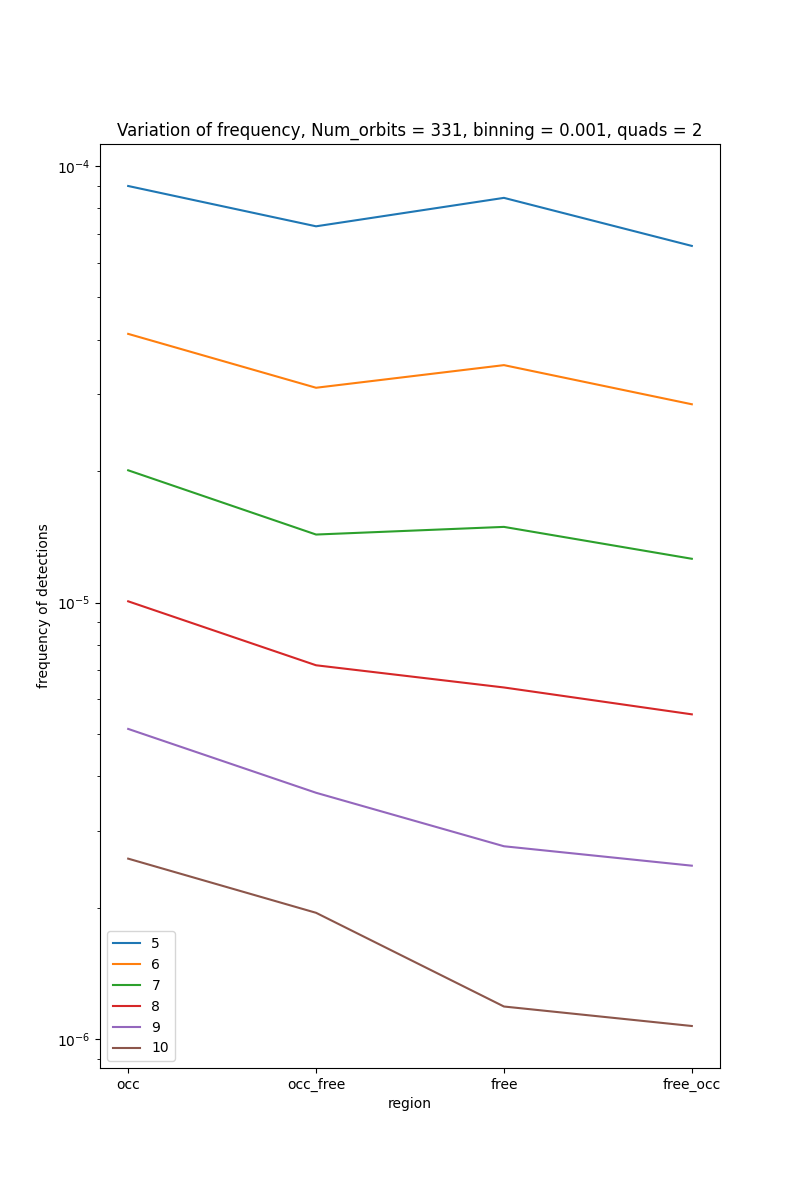
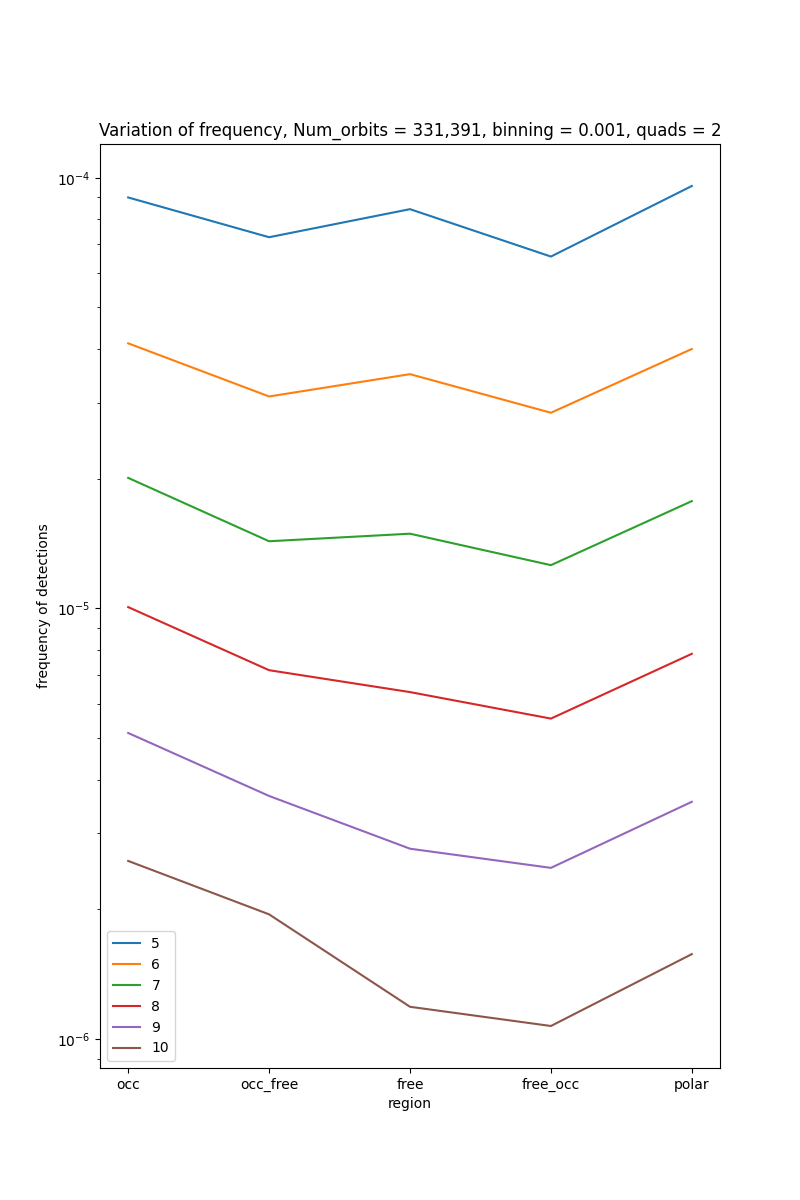
plots made

diff --git a/scripts/get_result_tables_final.py b/scripts/get_result_tables_final.py
@@ -27,11 +27,11 @@ gap = 30
 total_attempts = 400
 version=3
 
-gap2 = 26
+gap2 = 13
 attempts2 = 400
 version2 = 3
 
-plot_version = 7
+plot_version = 3
 
 
 with open('../data/orbitinfo.csv', 'r') as f:
@@ -64,8 +64,8 @@ names_of_regions=['occ', 'occ_free', 'free', 'free_occ']
 
 binning = 0.001
 mark=0
-path_to_tables = "../data/tables2"
-path_to_plots = "../data/final_plots2"
+path_to_tables = "../data/tables_final"
+path_to_plots = "../data/final_plots"
 total_duration_arr = [0,0,0,0]
 total_table = [0,0,0,0]
 

diff --git a/README.md b/README.md
@@ -34,7 +34,7 @@ version 1, gap = 8, runs=100
 version 2, gap = 14, runs = 300
 version 3, gap = 13, runs = 400
 
-plots - version 1,2,3 are without polar
+plots - 
 
 
 
